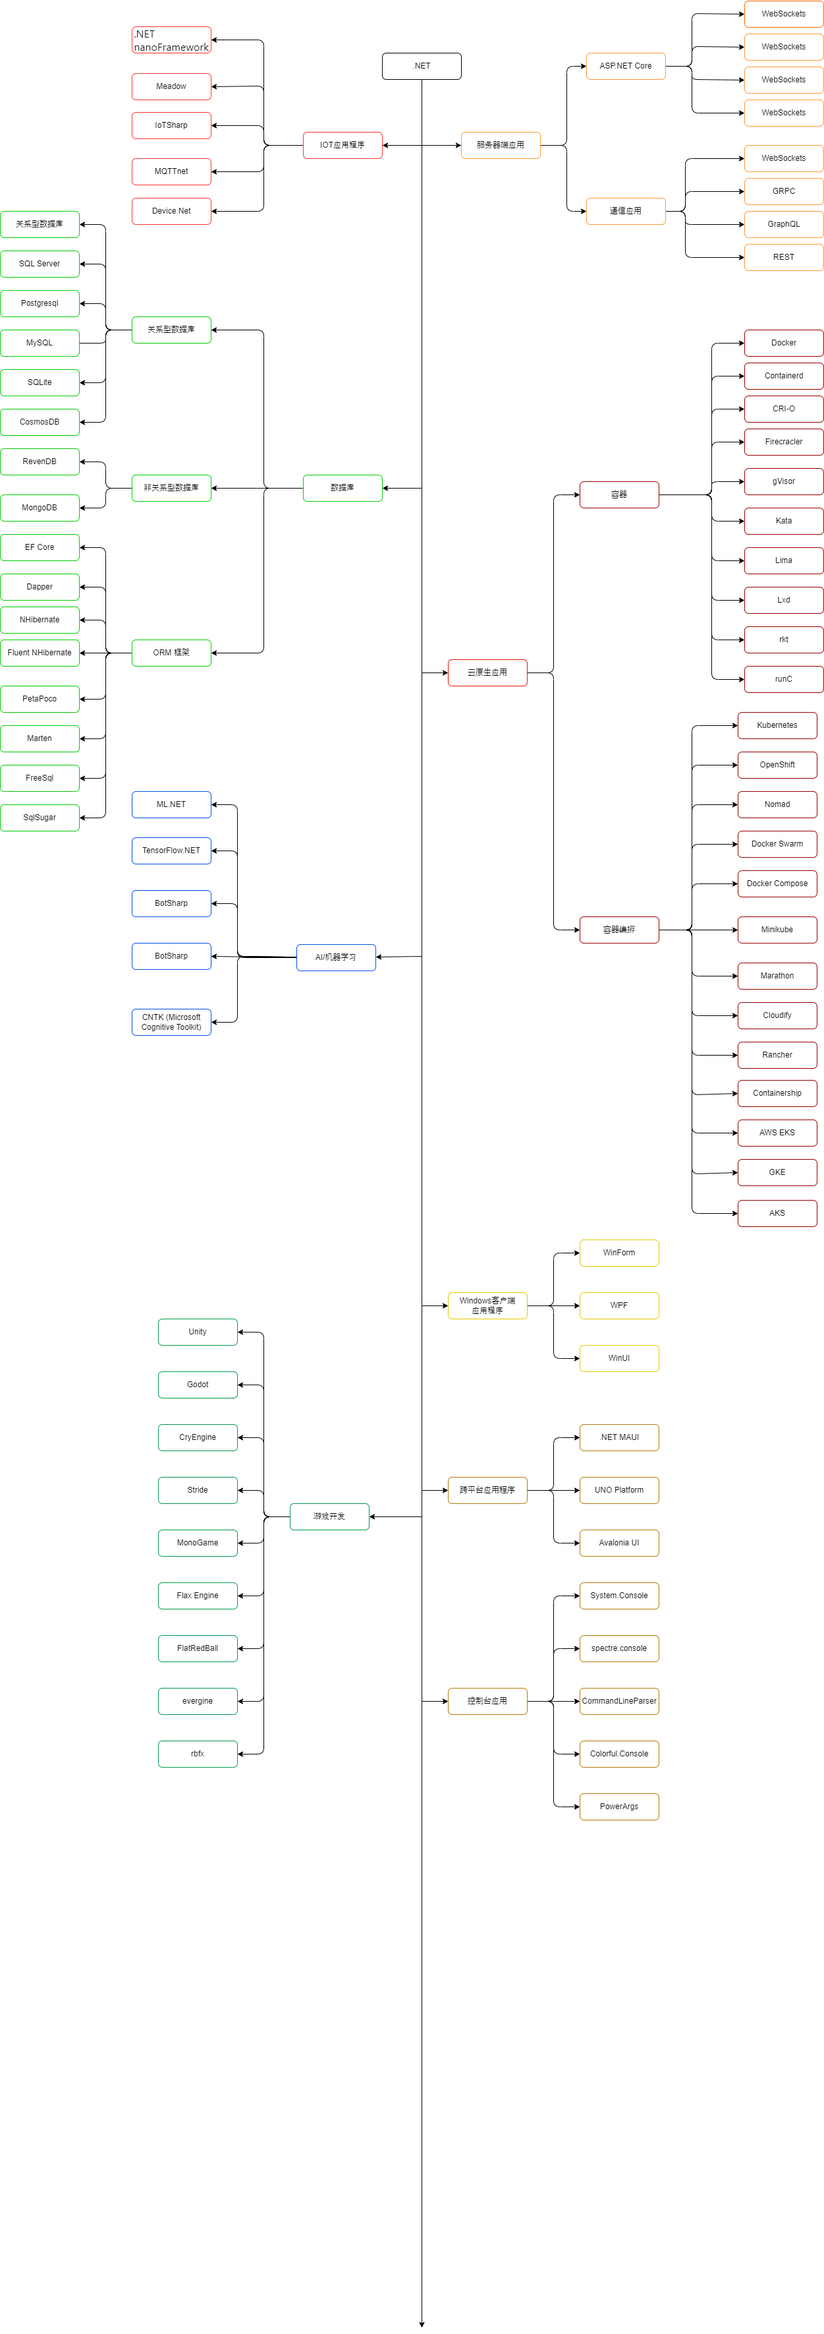
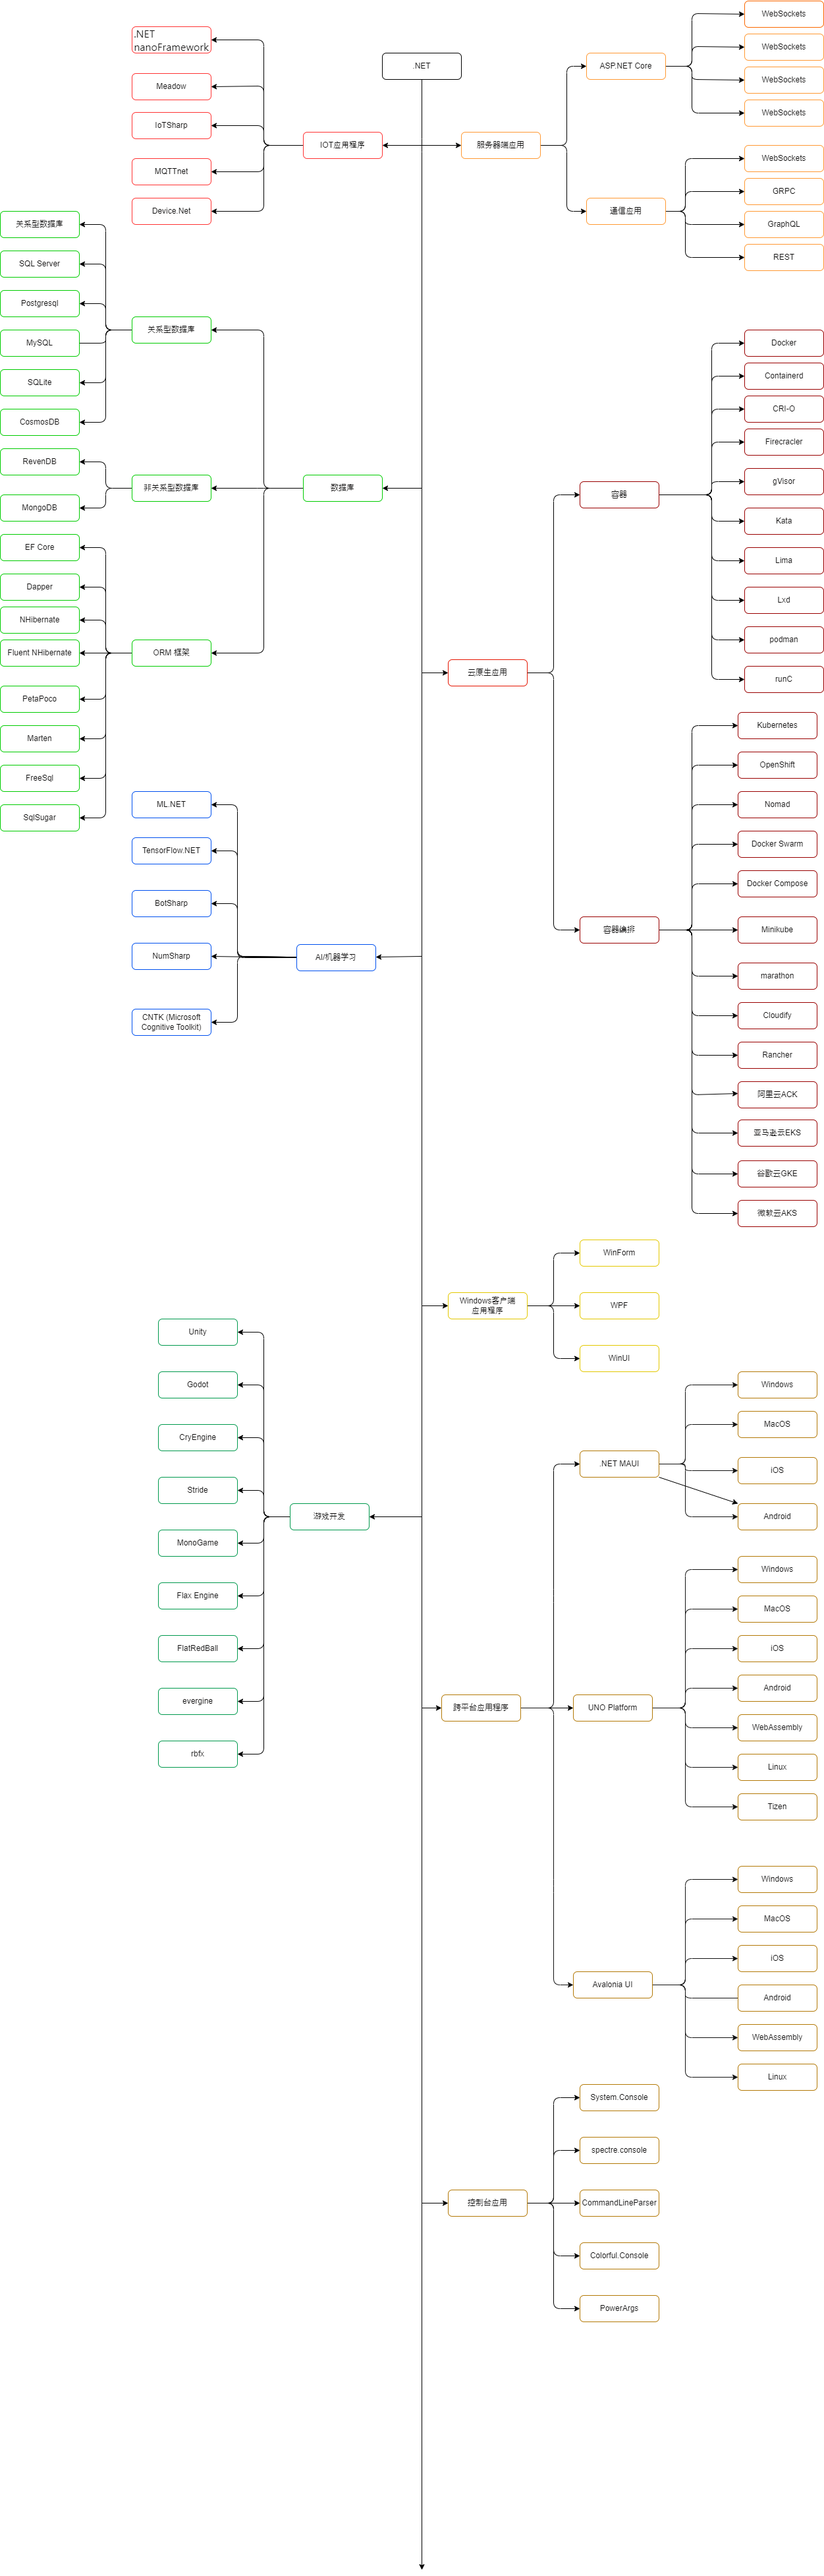
commit

diff --git a/README.md b/README.md
@@ -46,43 +46,59 @@
    + [docker](https://github.com/docker)
    + [containerd](https://github.com/containerd/containerd)
    + [cri-o](https://github.com/cri-o/cri-o)
-   + [linux containers](https://github.com/lxc/lxc)
+   + [firecracker](https://github.com/firecracker-microvm/firecracker)
+   + [gvisor](https://github.com/google/gvisor)
+   + [kata](https://github.com/kata-containers/kata-containers)
+   + [lima](https://github.com/lima-vm/lima)
+   + [lxd](https://github.com/canonical/lxd)
+   + [runC](https://github.com/opencontainers/runc)
    + [podman](https://github.com/containers/podman)
-   + [runc](https://github.com/opencontainers/runc)
 2. 容器编排
-   + Kubernetes (K8s)
-   + Amazon ECS
-   + Azure Kubernetes Service (AKS)
-   + Docker Swarm
-   + Google Kubernetes Engine (GKE)
+   + [Kubernetes](https://github.com/kubernetes/kubernetes)
+   + [OpenShift](https://github.com/openshift)
+   + [Nomad](https://github.com/hashicorp/nomad)
+   + [Docker Swarm](https://docs.docker.com/engine/swarm/)
+   + [Docker Compose](https://github.com/docker/compose)
+   + [Minikube](https://github.com/kubernetes/minikube)
+   + [Marathon](https://github.com/mesosphere/marathon)
+   + [Cloudify](https://github.com/cloudify-cosmo)
+   + [rancher](https://github.com/rancher/rancher)
+   + 阿里云ACK
+   + 亚马逊云EKS
+   + 谷歌云GKE
+   + 微软云AKS
 ## Windows客户端应用程序
 1. [WinForm](https://github.com/dotnet/winforms)
 2. [WPF](https://github.com/dotnet/wpf)
 3. [WinUI](https://github.com/microsoft/microsoft-ui-xaml)
 ## 跨平台应用程序
-1. [UNO Platform](https://github.com/unoplatform/uno)
+1. [.NET MAUI](https://github.com/dotnet/maui)
    + Windows
-   + Linux
-   + iOS/MacOS
-   + Web
-2. [.NET MAUI](https://github.com/dotnet/maui)
-   + Windwos
    + MacOS
    + iOS
    + Android
-3. [Avalonia UI](https://github.com/AvaloniaUI/Avalonia)
+2. [UNO Platform](https://github.com/unoplatform/uno)
    + Windows
-   + macOS
-   + Linux
+   + MacOS
    + iOS
    + Android
    + WebAssembly
+   + Linux
+   + Tizen
+3. [Avalonia UI](https://github.com/AvaloniaUI/Avalonia)
+   + Windows
+   + MacOS
+   + iOS
+   + Android
+   + WebAssembly
+   + Linux 
 ## 控制台应用程序
-   1. System.Console Micrsoft内置的控制台应用程序的接口类
+   1. System.Console 
+      >  Micrsoft内置的控制台应用程序的接口类
    2. [spectre.console](https://github.com/spectreconsole/spectre.console) 
    3. [CommandLineParser](https://github.com/commandlineparser/commandline)
-   4. [PowerArgs](https://github.com/adamabdelhamed/PowerArgs)
-   5. [Colorful.Console](https://github.com/tomakita/Colorful.Console)
+   4. [Colorful.Console](https://github.com/tomakita/Colorful.Console)
+   5. [PowerArgs](https://github.com/adamabdelhamed/PowerArgs)
    6. 下面是使用C#开发的控制台应用程序的一些例子
       > [PowerShell](https://github.com/PowerShell/PowerShell)     
       > [dnSpy](https://github.com/dnSpy/dnSpy)     
@@ -92,15 +108,12 @@
       > [GitVersion](https://github.com/GitTools/GitVersion)
       > [shellprogressbar](https://github.com/Mpdreamz/shellprogressbar)
 ## IOT(Internet of Things)应用程序
-1. [.NET nanoFramework](https://github.com/nanoframework)
-2. [Meadow](https://github.com/WildernessLabs/Meadow.Foundation)
-3. [IoTSharp](https://github.com/IoTSharp/IoTSharp)
-5. [Azure IoT Edge](https://github.com/Azure/iotedge)
-6. [MQTTnet](https://github.com/dotnet/MQTTnet)
-7. [Device.Net](https://github.com/MelbourneDeveloper/Device.Net)
-8. [IoT Hub](https://github.com/Azure/azure-iot-sdks)
-9. [Azure Sphere](https://github.com/Azure/azure-sphere-samples)
-10. [Azure Digital Twins](https://github.com/Azure-Samples/digital-twins-samples)
+1. [System.Device.Gpio](https://github.com/dotnet/iot)
+2. [.NET nanoFramework](https://github.com/nanoframework)
+3. [Meadow](https://github.com/WildernessLabs/Meadow.Foundation)
+4. [IoTSharp](https://github.com/IoTSharp/IoTSharp)
+5. [MQTTnet](https://github.com/dotnet/MQTTnet)
+6. [Device.Net](https://github.com/MelbourneDeveloper/Device.Net)
 ## 数据库
 1. 关系型数据库
    + SQL Server
